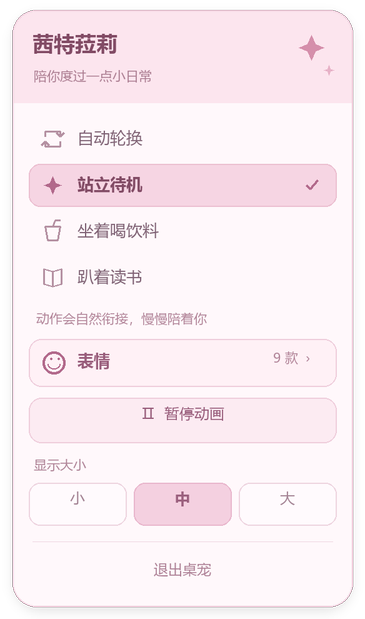
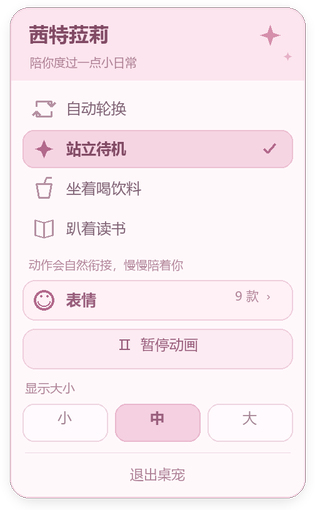
style: compact pink context menu and expression picker

diff --git a/menu_view.py b/menu_view.py
@@ -5,13 +5,13 @@ import os
 
 from PIL import Image, ImageDraw, ImageFilter, ImageFont
 
-WIDTH, HEIGHT = 292, 495
+WIDTH, HEIGHT = 252, 408
 COMMANDS = (10, 11, 12, 13, 50, 20, 31, 32, 33, 40)
-HITS = {10: (23, 94, 269, 128), 11: (23, 131, 269, 165),
-        12: (23, 168, 269, 202), 13: (23, 205, 269, 239),
-        50: (23, 271, 269, 309), 20: (23, 318, 269, 354),
-        31: (23, 386, 101, 420), 32: (107, 386, 185, 420),
-        33: (191, 386, 269, 420), 40: (23, 443, 269, 477)}
+HITS = {10: (18, 72, 234, 102), 11: (18, 104, 234, 134),
+        12: (18, 136, 234, 166), 13: (18, 168, 234, 198),
+        50: (18, 224, 234, 256), 20: (18, 263, 234, 295),
+        31: (18, 323, 86, 353), 32: (92, 323, 160, 353),
+        33: (166, 323, 234, 353), 40: (18, 369, 234, 394)}
 
 
 def hit_test(x, y):
@@ -49,22 +49,22 @@ def render_menu(state, hover=None, dpi=1.0):
                   fill=fill, anchor=anchor)
 
     shadow = Image.new('RGBA', canvas.size)
-    ImageDraw.Draw(shadow).rounded_rectangle(box((12, 13, 280, 487)), radius=20*factor, fill=(106, 52, 76, 35))
+    ImageDraw.Draw(shadow).rounded_rectangle(box((10, 10, 242, 400)), radius=16*factor, fill=(106, 52, 76, 35))
     canvas.alpha_composite(shadow.filter(ImageFilter.GaussianBlur(5*factor)))
-    rounded((10, 8, 282, 485), 19, '#fff8fb', '#ecc5d5')
+    rounded((8, 6, 244, 398), 15, '#fff8fb', '#ecc5d5')
     # A quiet rose header with two small star accents.
-    rounded((11, 9, 281, 81), 18, '#fce5ee')
-    draw.rectangle(box((11, 58, 281, 82)), fill='#fce5ee')
-    text(26, 23, '茜特菈莉', 17, '#824b65', True)
-    text(27, 53, '陪你度过一点小日常', 10.5, '#ac7e92')
+    rounded((9, 7, 243, 63), 14, '#fce5ee')
+    draw.rectangle(box((9, 47, 243, 64)), fill='#fce5ee')
+    text(23, 16, '茜特菈莉', 16, '#824b65', True)
+    text(24, 43, '陪你度过一点小日常', 9.5, '#ac7e92')
 
     def star(x, y, r, color):
         draw.polygon([box((x, y-r)), box((x+r*.28, y-r*.28)), box((x+r, y)),
                       box((x+r*.28, y+r*.28)), box((x, y+r)), box((x-r*.28, y+r*.28)),
                       box((x-r, y)), box((x-r*.28, y-r*.28))], fill=color)
 
-    star(249, 38, 10, '#d58fab')
-    star(263, 56, 4, '#e7b2c7')
+    star(216, 28, 8, '#d58fab')
+    star(230, 45, 3, '#e7b2c7')
     selected = 10 if state['auto'] else {'standing': 11, 'drinking': 12, 'reading': 13}[state['requested']]
     labels = {10: '自动轮换', 11: '站立待机', 12: '坐着喝饮料', 13: '趴着读书'}
     for command, label in labels.items():
@@ -74,7 +74,7 @@ def render_menu(state, hover=None, dpi=1.0):
             rounded((left, top, right, bottom), 9, '#f6d5e3' if active else '#fce8f0',
                     '#ecc0d1' if active else None)
         color = '#b2698b' if active else '#b591a2'
-        cx, cy = left+19, top+17
+        cx, cy = left+17, top+15
         if command == 10:
             # Two offset arrows form the loop icon.
             line([(cx-6, cy-2), (cx-6, cy-6), (cx+6, cy-6), (cx+6, cy-2)], color)
@@ -88,30 +88,30 @@ def render_menu(state, hover=None, dpi=1.0):
             line([(cx, cy-4), (cx+2, cy-9), (cx+6, cy-9)], color)
         else:
             line([(cx, cy-5), (cx-7, cy-7), (cx-7, cy+5), (cx, cy+7), (cx+7, cy+5), (cx+7, cy-7), (cx, cy-5), (cx, cy+7)], color)
-        text(left+39, top+7, label, 13, '#824b65' if active else '#806375', active)
+        text(left+35, top+6, label, 12, '#824b65' if active else '#806375', active)
         if active:
-            line([(right-24, top+17), (right-21, top+20), (right-15, top+13)], '#b2698b', 1.7)
+            line([(right-23, top+15), (right-20, top+18), (right-14, top+11)], '#b2698b', 1.7)
     pending = state.get('pending')
-    text(29, 247, '结束后切换：'+labels[{'standing':11, 'drinking':12, 'reading':13}[pending]] if pending else '动作会自然衔接，慢慢陪着你',
-         10.5, '#b18498')
+    text(23, 205, '结束后切换：'+labels[{'standing':11, 'drinking':12, 'reading':13}[pending]] if pending else '动作会自然衔接，慢慢陪着你',
+         9.5, '#b18498')
     rounded(HITS[50], 10, '#f6d5e3' if hover == 50 else '#fff1f6', '#efcedc')
-    draw.ellipse(box((34, 281, 52, 299)), outline='#b2698b', width=2*factor)
-    draw.arc(box((38, 287, 48, 295)), 0, 180, fill='#b2698b', width=factor)
-    for x in (40, 46):
-        draw.ellipse(box((x, 286, x+1.3, 287.3)), fill='#b2698b')
-    text(62, 279, '表情', 13, '#985d7b', True)
-    text(248, 281, '9 款  ›', 10.5, '#b18498', anchor='rt')
+    draw.ellipse(box((27, 232, 43, 248)), outline='#b2698b', width=2*factor)
+    draw.arc(box((30, 237, 40, 245)), 0, 180, fill='#b2698b', width=factor)
+    for x in (32, 37):
+        draw.ellipse(box((x, 236, x+1.3, 237.3)), fill='#b2698b')
+    text(53, 231, '表情', 12, '#985d7b', True)
+    text(216, 232, '9 款  ›', 10, '#b18498', anchor='rt')
     rounded(HITS[20], 10, '#f9e0eb' if hover == 20 else '#fcebf2', '#efcedc')
-    text(146, 325, '▷  继续播放' if state['paused'] else 'Ⅱ  暂停动画', 12, '#985d7b', anchor='mt')
-    text(27, 364, '显示大小', 10.5, '#ae8396')
+    text(126, 270, '▷  继续播放' if state['paused'] else 'Ⅱ  暂停动画', 11.5, '#985d7b', anchor='mt')
+    text(20, 303, '显示大小', 10, '#ae8396')
     for command, label, scale in ((31, '小', .7), (32, '中', 1), (33, '大', 1.3)):
         active = abs(state['scale']-scale) < .01
         rounded(HITS[command], 9, '#f4d0e0' if active else '#fbe4ee' if hover == command else '#fffafd',
                 '#e9b7cd' if active else '#eed5e0')
         left, top, right, bottom = HITS[command]
-        text((left+right)/2, top+7, label, 12, '#9b607e' if active else '#a38293', active, 'mt')
-    line([(26, 433), (266, 433)], '#eed6e1', .7)
+        text((left+right)/2, top+6, label, 11.5, '#9b607e' if active else '#a38293', active, 'mt')
+    line([(20, 362), (232, 362)], '#eed6e1', .7)
     if hover == 40:
         rounded(HITS[40], 9, '#fbe4ed')
-    text(146, 450, '退出桌宠', 11.5, '#ad8095', anchor='mt')
+    text(126, 374, '退出桌宠', 11, '#ad8095', anchor='mt')
     return canvas.resize((round(WIDTH*dpi), round(HEIGHT*dpi)), Image.Resampling.LANCZOS)

diff --git a/expressions.py b/expressions.py
@@ -10,9 +10,10 @@ from pet_menu import PinkMenu, monitor_work_area, rgba_pixels
 EXPRESSIONS = (('panic', '慌张'), ('sleep', '睡了'), ('suspicious', '怀疑'),
                ('hide', '不想面对'), ('wake', '刚醒'), ('blush', '脸红'),
                ('annoyed', '有点烦'), ('hello', '来了'), ('wink', '眨眼'))
-PICKER_HITS = {51: (22, 24, 79, 60), 52: (253, 25, 338, 59)}
-PICKER_HITS.update({101+i: (22+106*(i % 3), 105+123*(i//3),
-                          120+106*(i % 3), 222+123*(i//3)) for i in range(9)})
+PICKER_WIDTH, PICKER_HEIGHT = 306, 432
+PICKER_HITS = {51: (18, 20, 72, 52), 52: (222, 21, 286, 51)}
+PICKER_HITS.update({101+i: (18+92*(i % 3), 89+104*(i//3),
+                          102+92*(i % 3), 187+104*(i//3)) for i in range(9)})
 
 
 class StickerLibrary:
@@ -42,7 +43,7 @@ class StickerLibrary:
 
 def render_picker(library, state, hover=None, dpi=1):
     factor = max(2, round(2*dpi))
-    canvas = Image.new('RGBA', (360*factor, 506*factor))
+    canvas = Image.new('RGBA', (PICKER_WIDTH*factor, PICKER_HEIGHT*factor))
     draw = ImageDraw.Draw(canvas)
 
     def box(rect):
@@ -57,41 +58,41 @@ def render_picker(library, state, hover=None, dpi=1):
                   font=font(round(size*factor), bold), fill=fill, anchor=anchor)
 
     shadow = Image.new('RGBA', canvas.size)
-    ImageDraw.Draw(shadow).rounded_rectangle(box((12, 13, 348, 499)), radius=20*factor,
+    ImageDraw.Draw(shadow).rounded_rectangle(box((10, 10, 296, 426)), radius=16*factor,
                                              fill=(106, 52, 76, 35))
     canvas.alpha_composite(shadow.filter(ImageFilter.GaussianBlur(5*factor)))
-    rounded((10, 8, 350, 496), 19, '#fff8fb', '#ecc5d5')
-    rounded((11, 9, 349, 74), 18, '#fce5ee')
-    draw.rectangle(box((11, 55, 349, 74)), fill='#fce5ee')
+    rounded((8, 6, 298, 424), 15, '#fff8fb', '#ecc5d5')
+    rounded((9, 7, 297, 58), 14, '#fce5ee')
+    draw.rectangle(box((9, 44, 297, 59)), fill='#fce5ee')
     if hover == 51:
         rounded(PICKER_HITS[51], 9, '#f3cfdf')
-    text(30, 33, '‹ 返回', 11.5)
-    text(92, 28, '今天的心情', 16, '#824b65', True)
+    text(24, 27, '‹ 返回', 11)
+    text(78, 23, '今天的心情', 14, '#824b65', True)
     selected = state['expression']
     rounded(PICKER_HITS[52], 9, '#f3cfdf' if hover == 52 else '#fff5f9', '#eac3d4')
-    text(295, 34, '清除表情', 11, '#985d7b' if selected else '#b597a6', anchor='mt')
-    text(23, 82, '点一下，让小表情陪在她的右上角', 10.5, '#ae8396')
+    text(254, 28, '清除表情', 10, '#985d7b' if selected else '#b597a6', anchor='mt')
+    text(20, 67, '点一下，让小表情陪在她的右上角', 10, '#ae8396')
     for i, (key, label) in enumerate(EXPRESSIONS):
         command = 101+i
         left, top, right, bottom = PICKER_HITS[command]
         active = selected == key
-        rounded((left, top, right, bottom), 12,
+        rounded((left, top, right, bottom), 10,
                 '#fce2ee' if active else '#fff0f6' if command == hover else '#fffafd',
                 '#d68daa' if active else '#edc5d6' if command == hover else '#f0dce5',
                 1.5 if active else 1)
-        image = library.image(key, round(83*factor))
+        image = library.image(key, round(68*factor))
         canvas.alpha_composite(image, (round((left+right)*factor/2-image.width/2),
-                                        round((top+47)*factor-image.height/2)))
-        text((left+right)/2, top+93, label, 11.5, '#824b65' if active else '#957285', active, 'mt')
+                                        round((top+38)*factor-image.height/2)))
+        text((left+right)/2, top+77, label, 10.5, '#824b65' if active else '#957285', active, 'mt')
         if active:
             rounded((right-19, top+5, right-5, top+19), 7, '#cd84a4')
             text(right-12, top+4.5, '✓', 10, '#ffffff', True, 'mt')
-    text(180, 478, '显示 5 秒后自动消失 · 再次选择重新计时', 9.5, '#b18498', anchor='mt')
-    return canvas.resize((round(360*dpi), round(506*dpi)), Image.Resampling.LANCZOS)
+    text(153, 406, '5 秒后自动消失 · 再次选择重新计时', 9, '#b18498', anchor='mt')
+    return canvas.resize((round(PICKER_WIDTH*dpi), round(PICKER_HEIGHT*dpi)), Image.Resampling.LANCZOS)
 
 
 class ExpressionPicker(PinkMenu):
-    logical_width, logical_height = 360, 506
+    logical_width, logical_height = PICKER_WIDTH, PICKER_HEIGHT
     hits = PICKER_HITS
     commands = (51, 52, *range(101, 110))
     title = '茜特菈莉 · 今天的心情'

diff --git a/README.md b/README.md
@@ -7,7 +7,7 @@
 - 按住角色拖动：移动位置。
 - 鼠标滚轮：调整大小。
 - 右键角色：选择站立、喝饮料、读书、自动轮换、暂停、大小或退出。
-- 右键菜单采用浅粉色卡片、细线图标和选中提示；打开时动画继续播放。方向键或 Tab 选择、Enter 执行、Esc 收起，点击菜单外也会收起。
+- 右键菜单采用紧凑的浅粉色卡片、细线图标和选中提示；主菜单及表情面板收紧标题、行距和边距，打开时动画继续播放。方向键或 Tab 选择、Enter 执行、Esc 收起，点击菜单外也会收起。
 - 右键 → **表情**：九宫格展示慌张、睡了、怀疑、不想面对、刚醒、脸红、有点烦、来了和眨眼。点击后显示在桌宠右上角，5 秒后自动消失；再次选择任意表情会重新计时。暂停动画时也会正常到时消失。
 - 表情会随桌宠拖动、缩放和切换动作调整位置；透明贴图不拦截鼠标，靠近屏幕边缘时保持在可见范围内。在表情面板点击“清除表情”即可收起。
 - 空格：暂停或继续。Esc：退出。

diff --git a/docs/RELEASE_NOTES.md b/docs/RELEASE_NOTES.md
@@ -3,7 +3,7 @@
 - 完整保留人物、整个抱枕和动作道具，包含站立、喝饮料、读书三组动画。
 - 保留原生 60 FPS 帧与无损画质，动作自然结束后衔接下一组。
 - 修复站立脚底倒影闪动和背后两条飘带的透明轮廓。
-- 新增柔和粉色右键菜单，支持动作选择、自动轮换、暂停和大小调整。
+- 紧凑的柔和粉色右键菜单，收紧主菜单与表情面板的留白，支持动作选择、自动轮换、暂停和大小调整。
 - 右键选择“表情”展示九宫格；内置 9 款透明表情，点击后显示在桌宠右上角，5 秒后自动消失，再次选择重新计时。表情随拖动、缩放和动作调整位置，也可在面板手动清除。
 - 表情不拦截鼠标，缩略图按需在后台解码，缓存数量受限。
 - 改为按需读取和有限帧缓存，默认尺寸本机回归工作集峰值约 45 MiB，大号约 72 MiB。
